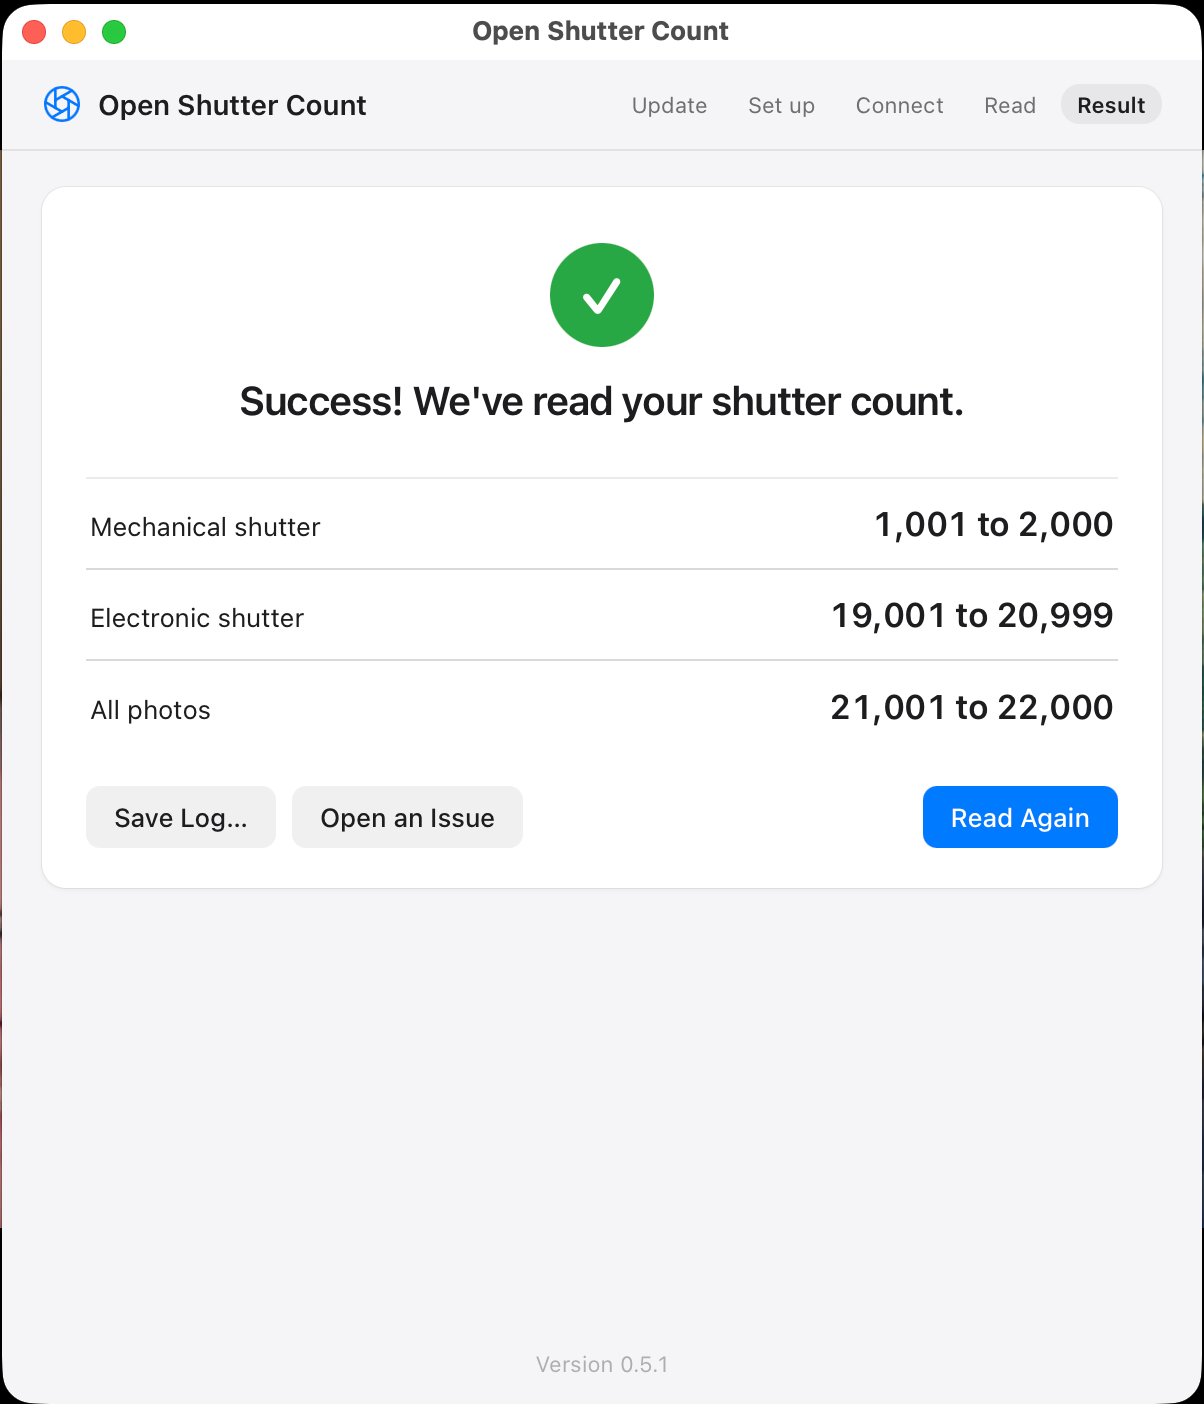
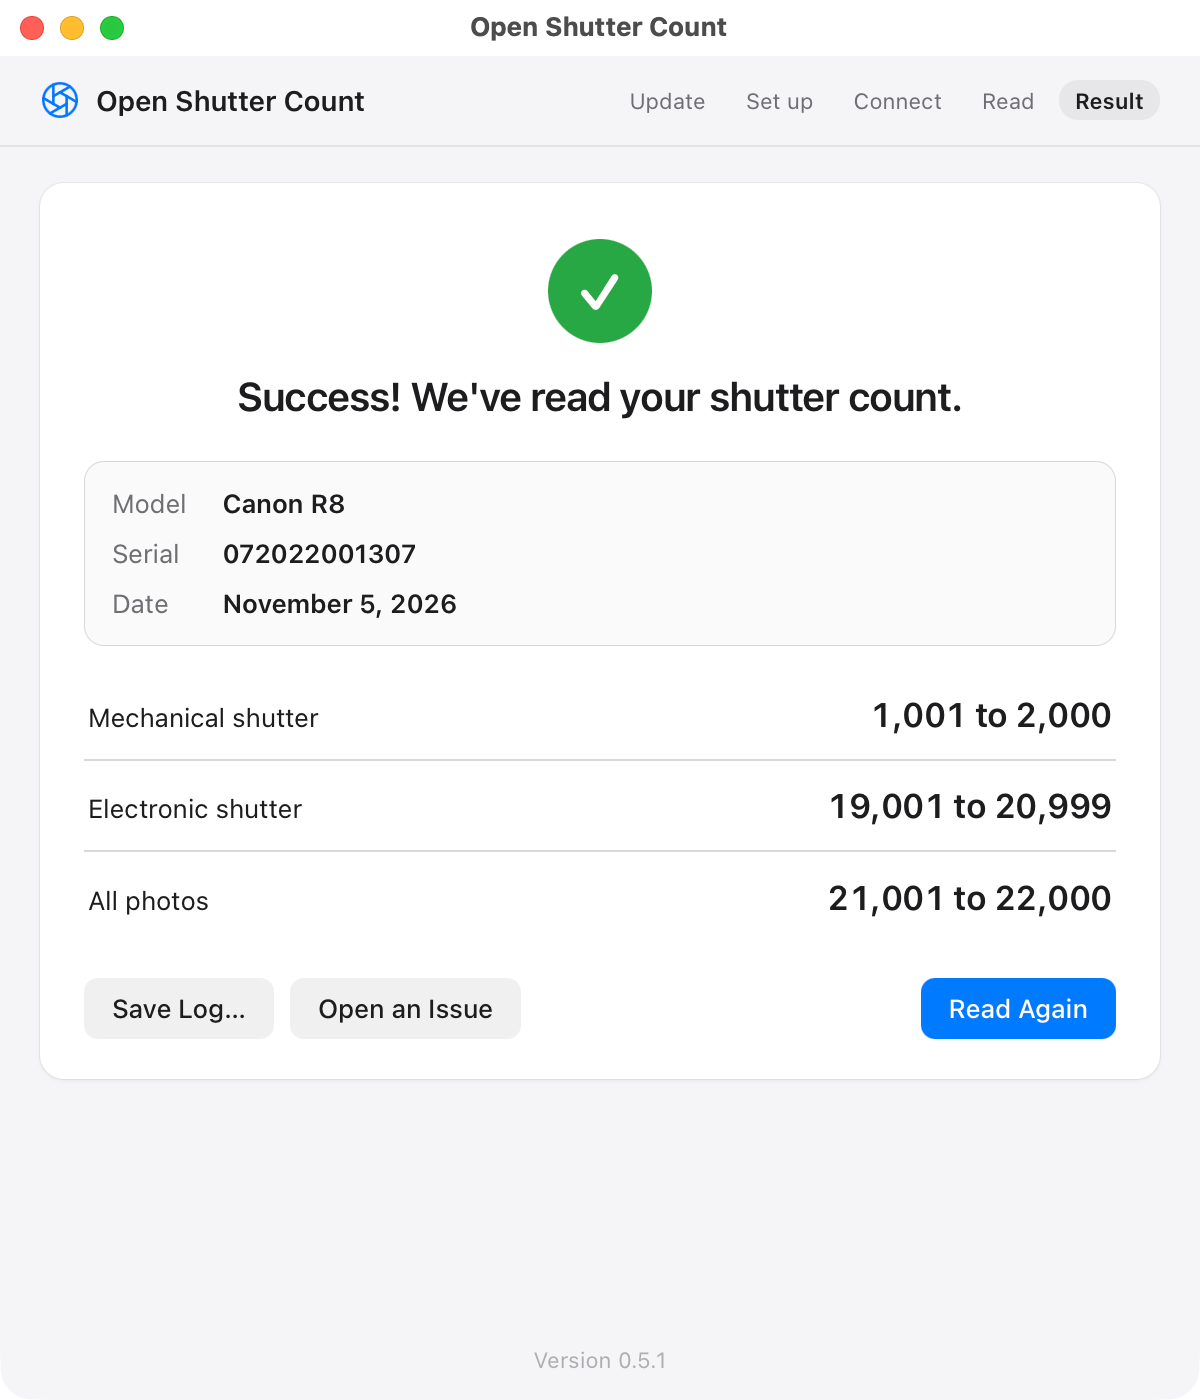
README: retake the result screenshot with the new panel
Taken the way the earlier one was: the app's window in light mode, at its
600 by 700 size, without its shadow, in sRGB. The app ran from source with
a stand-in camera that gave the R8 test reading, so the serial number is the
test fixture's made-up one, and the camera wasn't touched.

diff --git a/README.md b/README.md
@@ -7,7 +7,7 @@ Free and open source.
 (for Macs with Apple silicon)
 
 <p align="center">
-  <img src="docs/screenshots/result.png" width="360" alt="Open Shutter Count showing a Canon R8's mechanical, electronic and total counts">
+  <img src="docs/screenshots/result.png" width="360" alt="Open Shutter Count showing a Canon R8's model, a sample serial number, the date, and its mechanical, electronic and total counts">
 </p>
 
 - **Read off the camera itself.** Some online tools read from a photo file. The mechanical count
